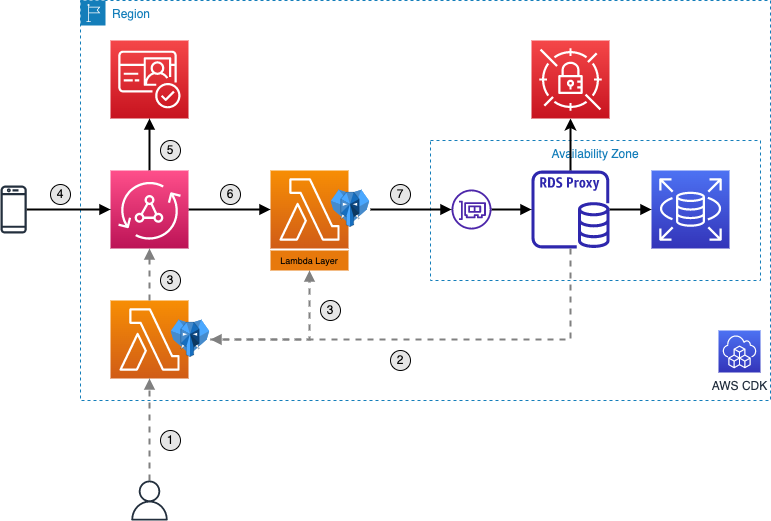
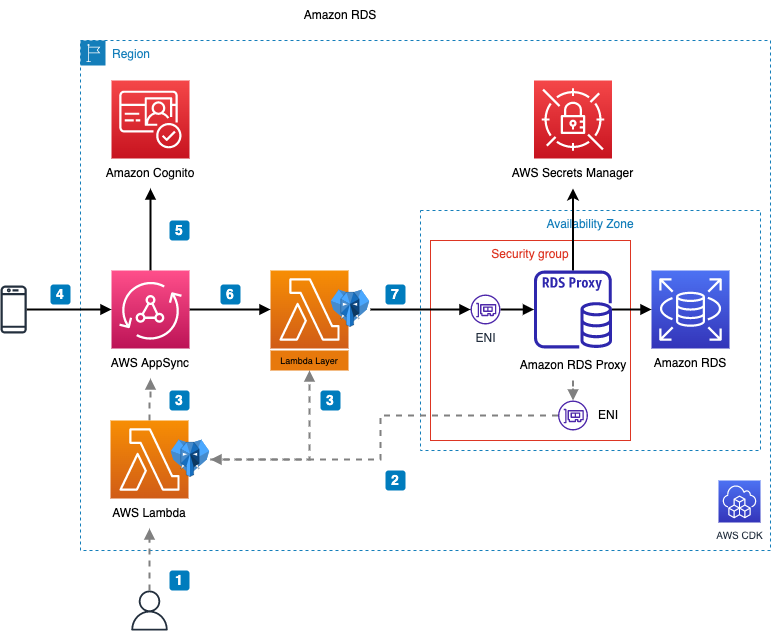
update readme

diff --git a/README.md b/README.md
@@ -1,19 +1,21 @@
-# Managed GraphQL API solution for RDS Postgres database with AWS AppSync and Postgraphile
+# Creating serverless GraphQL APIs from RDS databases with AWS AppSync and PostGraphile
 
 ![A diagram of the architecture solution Overview](./images/overview.png "Solution Overview")
 
-This repo provides a CDK-based solution that allows you to create an AWS AppSync API from a defined Postgres database in AWS RDS.
+This repo provides a CDK-based solution that allows you to create an [AWS AppSync](https://aws.amazon.com/appsync/) API from a defined Postgres database in AWS RDS.
 
-The solution leverages PostGraphile to help create an AppSync-comptabile schema and then uses Lambda function to resolve the query operations from Appsync. The solution does not require writing any code and works with any Postgres database (e.g.: RDS Aurora Postgres).
+This solution  leverages [PostGraphile](https://www.graphile.org/postgraphile/) to automatically generate an AppSync compliant schema from PostgreSQL tables, and uses Lambda functions to resolve GraphQL queries against a PostgreSQL database in [Amazon RDS](https://aws.amazon.com/rds/). The solution is serverless, and can be deployed in a few clicks. It uses the [AWS CDK](https://aws.amazon.com/cdk/), does not require writing any code, supports subscriptions, and works with any PostgreSQL database like [Amazon RDS for PostgreSQL](https://aws.amazon.com/rds/postgresql/) and [Amazon Aurora PostgreSQL](https://aws.amazon.com/rds/aurora/features/).
 
-1. Deploy the CDK solution.
-2. Operator triggers update process by calling the  `provider` function
-3. `provider` function retrieves schema information from RDS database
-4. `provider` updates the Lambda layer attached to the `resolver` Lambda function and updates the AppSync API schema
-5. A GraphQL request is made to the AppSync API
-6. AppSync authorizes the request with Cognito (optional) or with the configured authorization mode.
-7. AppSync resolves the request by calling the attached Direct Lambda Resolver. The identity of the requester is included in the request to the Lambda function
-8. The Lambda function resolves the query using the PostGraphile schema and RDS database
+## Solution Overview
+
+0. Start by deploying the CDK-based solution. The solution creates an AppSync API with a datasource that uses the resolver Lambda function, and an AppSync function that uses that datasource.
+1. Once the solution is deployed, a user runs the `provider` function to analyze the RDS PostgreSQL database and generate the GraphQL schema. 
+2. The `provider` function retrieves schema information from RDS database using Postgaphile
+3. The `provider` updates the Layer function attached to the `resolver` Lambda function and updates the AppSync API. It updates the schema, and properly sets up the queries, mutations, and subscriptions. Note that a user can repeat step 1 at any time (e.g.: after a database schema change) to update the AppSync API definition.
+4. The AppSync API is now ready to process requests. A GraphQL request is made.
+5. AppSync authorizes the request using the configured Authorization Mode (API KEY, Cognito User Pool, etc...)
+6. AppSync resolves the request by calling the attached Direct Lambda Resolver. The identity of the user is included in the request to the `resolver` Lambda function
+7. The Lambda function resolves the query using the PostGraphile schema and RDS database
 
 For more information about the solution and a detailed walk-through, please see the related [blog](http://todo).
 
@@ -25,11 +27,11 @@ cd appsync-with-postgraphile-rds
 npm install
 ```
 
-## VPC with RDS (optional step)
+## Deploying a VPC with RDS (optional step)
 
-If you do not have an existing PostgreSQL RDS, the **vpc-with-pg** app will deploy a VPC with public and private subnets with NAT Gateway and provision an RDS instance into the private subnet.
+If you do not have an existing PostgreSQL RDS, the **vpc-with-pg** CDK app will deploy a VPC with public and private subnets with NAT Gateway and provision an RDS instance into the private subnet.
 
-### Deploy
+### Deploy the VPC
 
 ```sh
 cd ./vpc-with-pg
@@ -51,20 +53,52 @@ npm run load
 cd ..
 ```
 
+### Clean up the VPC app
+
+```sh
+cd ./vpc-with-pg
+npm run cdk destroy -- --all
+```
+
 ## The solution
 
 Deploy the solution into an existing vpc with RDS, or after **vpc-with-pg**.
 
-You must use RDS Proxy with IAM authorization.
-<https://docs.aws.amazon.com/AmazonRDS/latest/AuroraUserGuide/rds-proxy.html>
+### Requirements
 
-## Deploy the solution
+To get started, you need the following to enable connections to our database:
+
+* an RDS Postgres database
+* an RDS Proxy associated with our RDS Postgres database
+  * we use [AWS Identity and Access Management (IAM) authentication for databases](https://docs.aws.amazon.com/AmazonRDS/latest/AuroraUserGuide/rds-proxy.html)
+  * and securely store credentials in AWS Secrets Manager.
+* a [VPC Security Group](https://docs.aws.amazon.com/vpc/latest/userguide/VPC_SecurityGroups.html) that allows connection to our RDS Proxy
+
+You will also need to know the following information about our Postgres database:
+
+* database to connect to
+* schema(s) of interest (containing our tables and functions)
+* username/role to use to execute queries. This role should have the scoped-down privileges required to access the schema(s). See this [AWS blog](https://aws.amazon.com/blogs/database/overview-of-security-best-practices-for-amazon-rds-for-postgresql-and-amazon-aurora-postgresql-compatible-edition/) for more details on security best practices for Amazon RDS for PostgreSQL.
+
+### Deploy the solution
 
 Use the `deploy` script to deploy the CDK solution. The script uses values from **vpc-with-pg**'s `output.json` to configure the stacks context environment and variables.
 
-```bash
+```sh
+git clone https://github.com/aws-samples/appsync-with-postgraphile-rds.git
+cd appsync-with-postgraphile-rds
+npm install
+
 cd ./pg-with-graphile
-npm run deploy -- --username <username> --database <database> --schemas <schemas>
+
+REGION="<region>"
+RDSPROXYNAME="<rdsproxyname>"
+SECURITYGROUPID="<security-group-id>"
+USERNAME="<username>"
+DATABASE="<database>"
+SCHEMAS="<schemas>"
+
+npm run deploy -- --region $REGION --proxy $RDSPROXYNAME --sg $SECURITYGROUPID --username $USERNAME --database $DATABASE --schemas $SCHEMAS
 ```
 
 For example, if you deployed **vpc-with-pg** along with the demo data provided, you would run the following command:
@@ -77,18 +111,18 @@ npm run deploy -- --username lambda_runner --database forum_demo_with_appsync --
 After deployment, run the `update` script to update your API and create your schema cache layer
 
 ```bash
+# in the `./pg-with-graphile` directory
 npm run update
 ```
 
 Done.
 
-## Clean up
+## Clean up the solution
 
 When you are done with the solution, you can delete your resources by running the scripts below.
 
 ```sh
+# in the `./pg-with-graphile` directory
 cd ./pg-with-graphile
 npm run cdk destroy
-cd ./vpc-with-pg
-npm run cdk destroy -- --all
 ```
